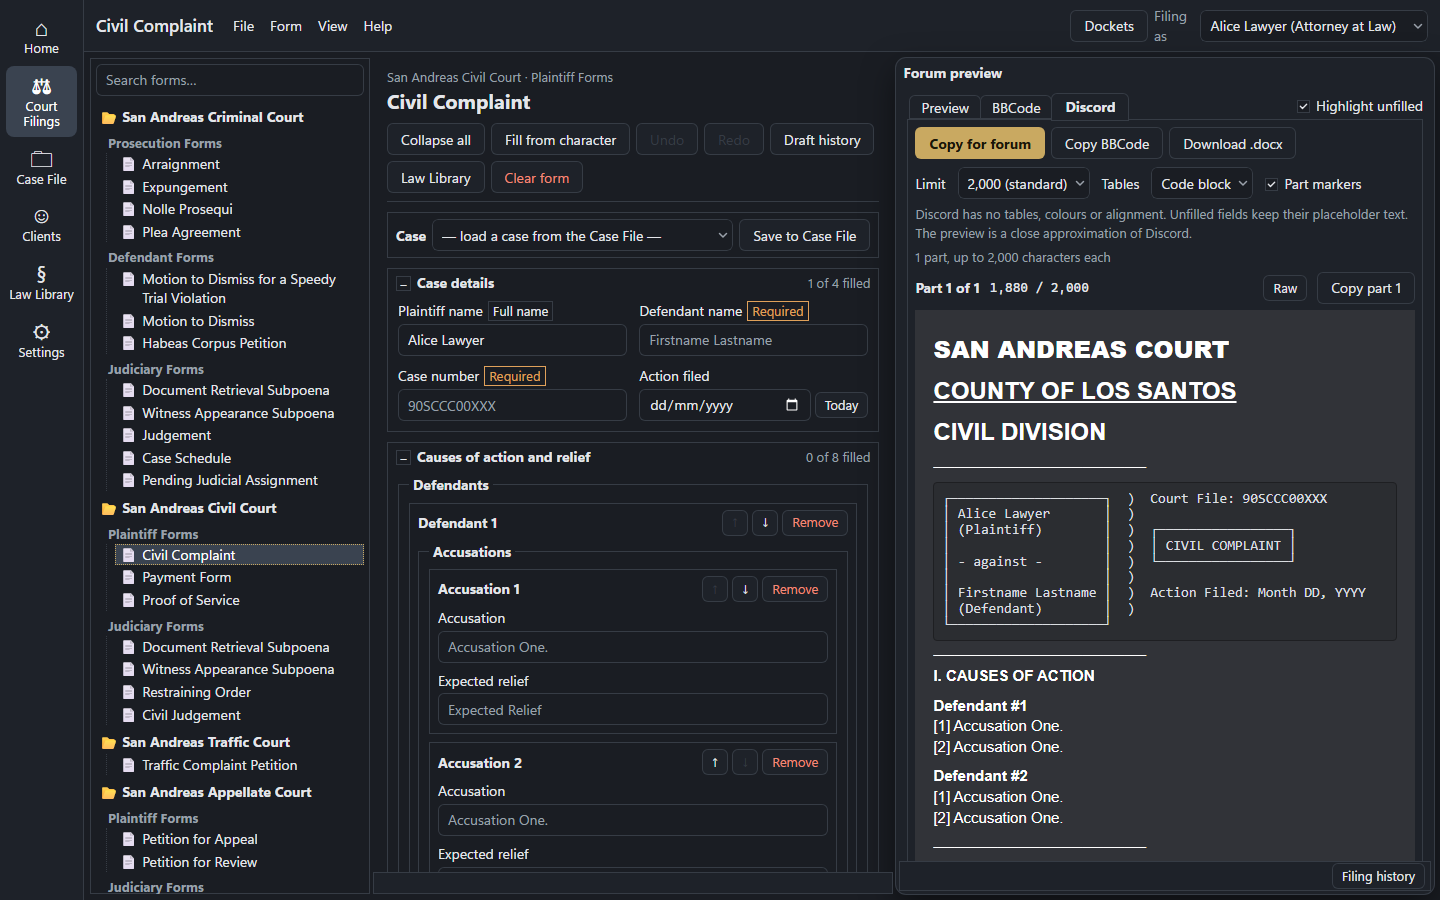
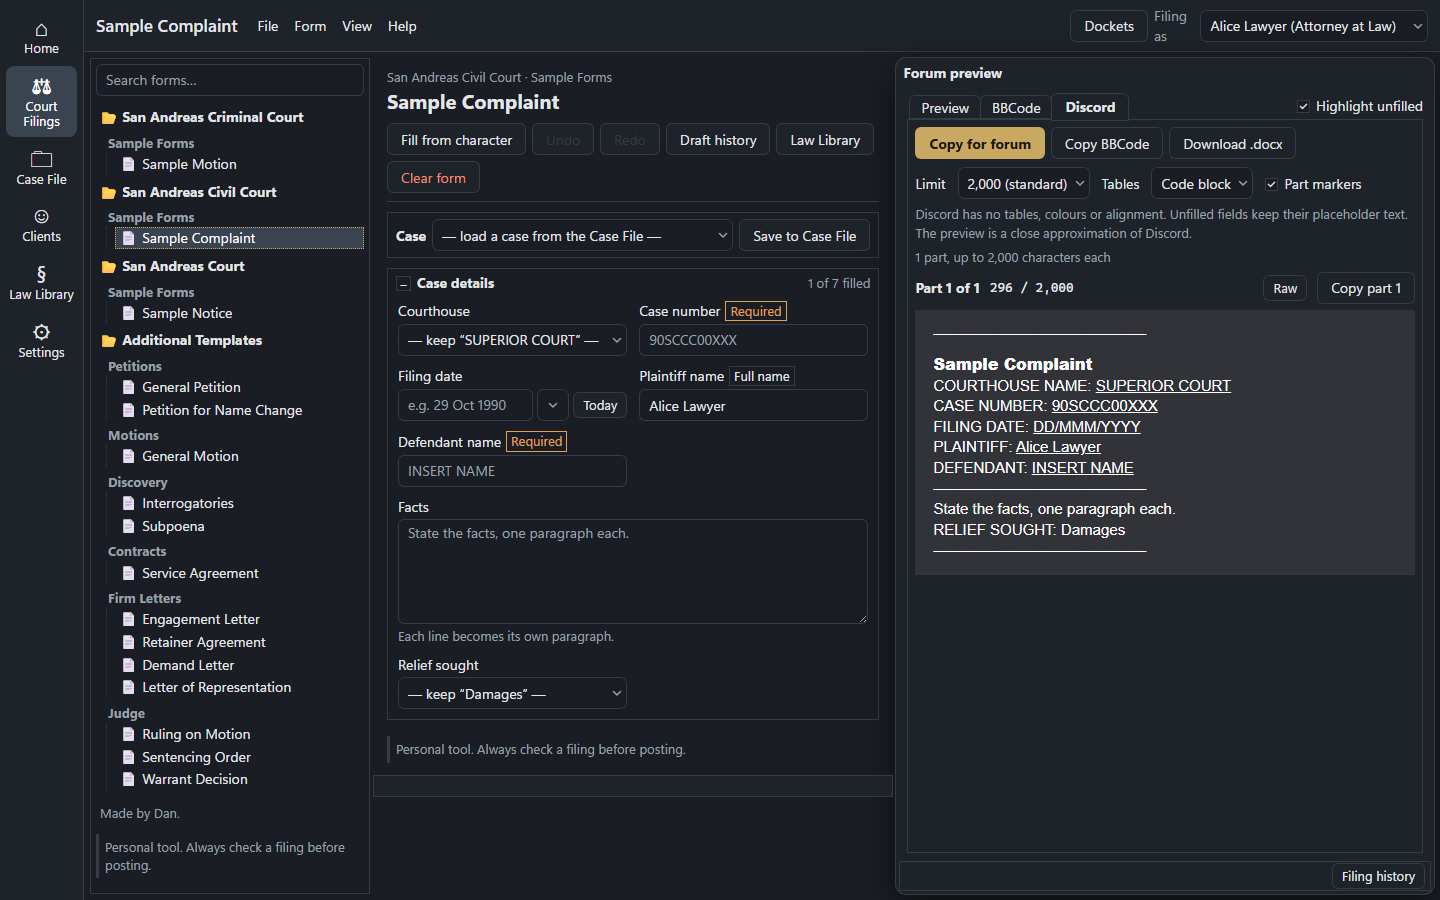
test(e2e): keep private forms and charges out of screenshots [LP-168] (#132)
The screenshot tests mask the form list and the Law Library's chapters
and charges, and the 16 Court Filings and Law Library baselines that
showed them are removed: CI records masked ones on its next run, for
npm run screenshots:accept. The README's form and Discord images are
retaken on the sample data, and scripts/screenshots.mjs picks the first
civil form of whichever data the app was built with. The sample
complaint's select uses the right option syntax.

diff --git a/e2e/visual.spec.ts b/e2e/visual.spec.ts
@@ -3,19 +3,29 @@
 // The approved screenshots are in e2e/screenshots/. They're taken in CI's Playwright Linux image, so
 // fonts and anti-aliasing match; elsewhere these tests skip. `npm run screenshots:accept` copies the
 // screenshots of the branch's last failed CI run over the approved ones (docs/testing.md).
-import { expect, test } from "@playwright/test";
+//
+// The court forms and the penal code are private (LP-165), and the approved screenshots are public, so
+// the parts that show them are painted over (LP-168): the form list, and the Law Library's chapters
+// and charges. The layout around them is still compared.
+import { expect, test, type Page } from "@playwright/test";
 import { LAYOUTS, THEMES, VIEWS, openView } from "./views";
 
 test.skip(process.platform !== "linux", "screenshots are compared in CI's Playwright Linux image");
 // The phone's fractional pixel ratio (Pixel 7, 2.625) smooths text differently from run to run.
 test.use({ deviceScaleFactor: 1 });
 
+/** What each view must not picture. */
+const PRIVATE = ["#form-list", "#library-nav .tree", "#code-section"];
+const mask = (page: Page) => PRIVATE.map((sel) => page.locator(sel));
+
 for (const layout of LAYOUTS) {
   for (const theme of THEMES) {
     for (const [view, url] of VIEWS) {
       test(`${view}, ${layout}, ${theme}`, async ({ page }, testInfo) => {
         await openView(page, url, layout, theme);
-        await expect(page).toHaveScreenshot(`${testInfo.project.name}-${layout}-${theme}-${view}.png`);
+        await expect(page).toHaveScreenshot(`${testInfo.project.name}-${layout}-${theme}-${view}.png`, {
+          mask: mask(page),
+        });
       });
     }
   }

diff --git a/docs/testing.md b/docs/testing.md
@@ -141,6 +141,12 @@ Playwright's image; on Windows and macOS they skip. To change the approved scree
 3. `npm run screenshots:accept` (needs the GitHub CLI, `gh`) copies them from the branch's latest
    failed run into `e2e/screenshots/`; pass a run id to pick another run. Commit them.
 
+**Nothing private is pictured (LP-168).** The approved screenshots are public, but the court forms
+and penal code aren't (LP-165), so `visual.spec.ts` masks the form list and the Law Library's
+chapters and charges (`PRIVATE`). Mask anything new that shows them. The README's screenshots
+(`npm run screenshots`) are taken on the sample data: `APP_DATA=sample npm run build`, then
+`npm start`.
+
 ## Playwright scripts
 
 These drive a real browser against a running app, so they aren't part of `npm test`. They need
